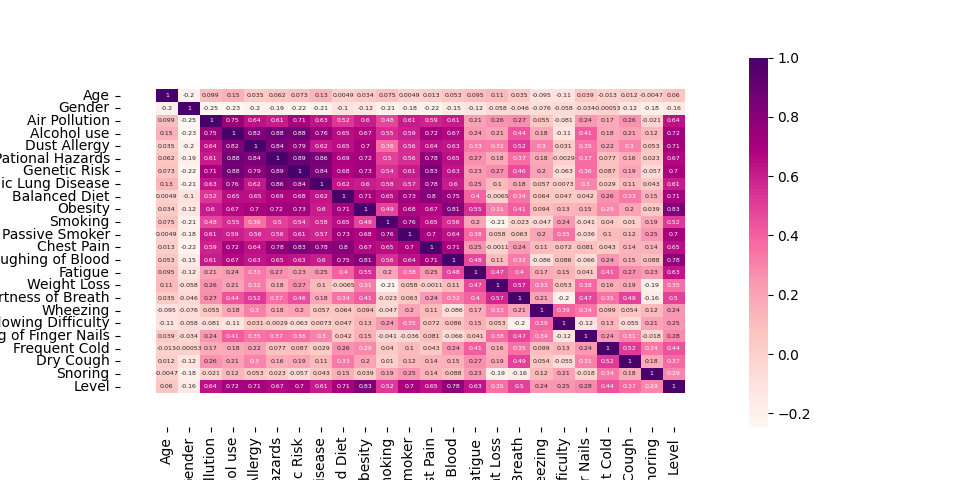
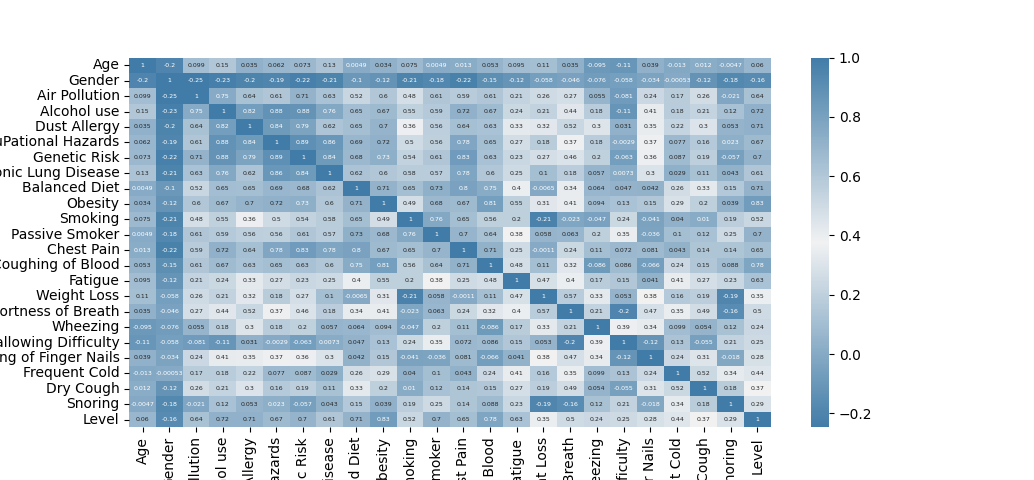
chi2 updated

diff --git a/main.py b/main.py
@@ -4,7 +4,7 @@ import pandas as pd
 import numpy as np
 #import matplotlib for ploting graphs
 import matplotlib.pyplot as plt
-#import sklearn features used for calculating RMSE, fit regression model and Polynomial features
+#import sklearn features used for calculating RMSE, fitting regression model and Polynomial features
 from sklearn.metrics import mean_absolute_error
 from sklearn.metrics import mean_squared_error
 #import seaborn for heatmaps
@@ -20,9 +20,12 @@ from sklearn.metrics import classification_report
 #import KFold for tuning tests
 from sklearn.model_selection import KFold
 from sklearn.model_selection import cross_val_score
+#import accuracy_score to retrieve accuracy from predictions
+from sklearn.metrics import accuracy_score
+
 #read xlsx file/create dataframe
 df = pd.read_excel('data/datasets.xlsx')
-#drop unnecessary fields from the dataframe
+#remove unnecessary fields from the dataframe
 df = df.drop('Patient Id', axis = 1)
 
 #convert non numerical values
@@ -36,12 +39,13 @@ df['Level'] = df['Level'].astype(np.int64)
 df_aggr = df.agg({'mean','std'})
 #normalise data and print out head
 newdata = (df-df.mean())/df.std()
-# print(df.agg({'mean','std'}))
+#print(df.agg({'mean','std'}))
 
 newdata = df.corr()
-# print(df_corr.round(2).head(len(df_corr)))
-# plt.imshow(df_corr, cmap='RdPu', interpolation='nearest')
-sns.heatmap(newdata, cmap='RdPu', annot=True, annot_kws={"size":4.5})
+#print(df_corr.round(2).head(len(df_corr)))
+# plt.imshow(newdata, cmap='RdPu', interpolation='nearest')
+cmap = sns.diverging_palette(240,240, as_cmap=True)
+sns.heatmap(newdata, cmap=cmap, annot=True, annot_kws={"size":4.5})
 
 #split to input and output
 array = df.values
@@ -51,13 +55,13 @@ y = array[:, 23]
 # print(X.shape)
 # print(y)
 
-# X = df_diabetes['BMI']
-# y = df_diabetes['Y']
-
-# print(array)
+#array to store the indexes and corresponding accuracies
+indexes = []
+accuracies = []
 
 for i in range(1,24):
-    f = open("resultschi2.txt", "a")
+    #open file for results
+    
     bestfeatures = SelectKBest(score_func=chi2, k=i)
     fit = bestfeatures.fit(X,y)
     # print(fit.scores_)
@@ -68,10 +72,6 @@ for i in range(1,24):
     # print(bestfeatures[0:10,:])
     # print(bestfeatures.shape)
 
-    # f = open("demofile2.txt", "a")
-    # f.write(str(bestfeatures[0:100, :]))
-    # f.close()
-    # //////////////////////////////////////////
     #split into test and training set
     x_train, x_test, y_train, y_test = train_test_split(bestfeatures, y, test_size=0.33, random_state=0)
 
@@ -87,29 +87,39 @@ for i in range(1,24):
     # print(predictions1)
     mse = mean_absolute_error(y_test, predictions1)
     # print(mse)
-
+    indexes.append(i)
+    accuracies.append(accuracy_score(y_test, predictions1))
     # print(classification_report(y_test, predictions1))
-    f.write("****************CLASSIFICATION REPORT****************\n")
-    f.write("*****************************************************\n")
-    f.write("k = "+ str(i))    
-    f.write("\n")
-    f.write(classification_report(y_test, predictions1))
-    f.write("\n")
-    f.close()
 
-    #test options and evaluation metric
-num_folds = 11
+#register results into results file
+    # f = open("resultschi2.txt", "a")
+    # f.write("****************CLASSIFICATION REPORT****************\n")
+    # f.write("*****************************************************\n")
+    # f.write("k = "+ str(i))    
+    # f.write("\n")
+    # f.write(classification_report(y_test, predictions1))
+    # f.write("\n")
+    # f.close()
+
+#accuracy scattergram and plot
+# sc = pd.DataFrame({'accuracies':accuracies, 'indexes':indexes})
+# sc.plot(x='indexes', y='accuracies')
+# sc.plot.scatter(x='indexes', y='accuracies')
+# plt.scatter(indexes,accuracies)
+
+#test options and evaluation metric
+# num_folds = 5
 # seed = 3
-scoring = 'accuracy'
+# scoring = 'accuracy'
 
-kfold = KFold(n_splits=num_folds, random_state=None)
-cv_results = cross_val_score(Model1, x_train, y_train, scoring=scoring, cv=kfold)
-msg = '%f (%f)'%(cv_results.mean(), cv_results.std())
+# kfold = KFold(n_splits=num_folds, random_state=None)
+# cv_results = cross_val_score(Model1, x_train, y_train, scoring='accuracy', cv=kfold)
+# msg = '%f (%f)'%(cv_results.mean(), cv_results.std())
 # print(msg)
 
 #plot scattergram to verify relevancy of the results
-results = pd.DataFrame({'y_test':y_test, 'predictions1':predictions1})
-results.plot.scatter(x='y_test', y='predictions1')
+# results = pd.DataFrame({'y_test':y_test, 'predictions1':predictions1})
+# results.plot.scatter(x='y_test', y='predictions1')
 
 #show plots
-# plt.show()
+plt.show()
